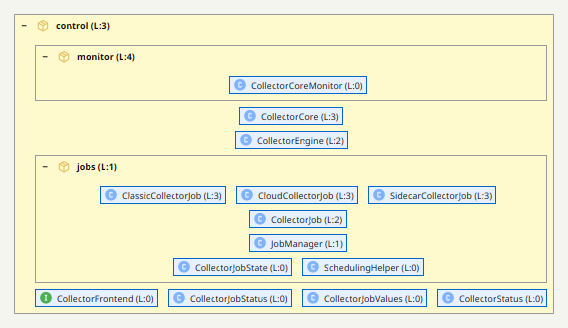
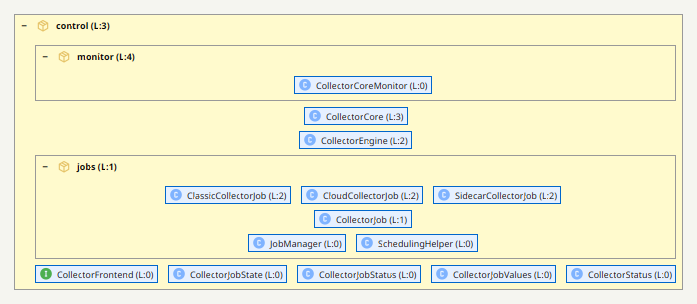
docs: the rules of the collector

Changed region(s): [[0.0, 0.0296, 0.9877, 0.977]]

diff --git a/docs/architecture/collector-components.de.md b/docs/architecture/collector-components.de.md
@@ -9,10 +9,11 @@ gibt es [ein eigenes Dokument](workbench-components.de.md).
 
 Die Bilder stammen aus [S202](https://github.com/Weigend/S202) 1.4.0, das die Abhängigkeiten aus
 dem Bytecode liest. Geladen sind die JARs aller Module des Collectors zusammen. Stand:
-7.6.0-SNAPSHOT, Commit `9277c83`, 24.11.2026.
+7.6.0-SNAPSHOT, Commit `f5d7178`, 24.11.2026.
 
 - [So sind die Bilder zu lesen](#so-sind-die-bilder-zu-lesen)
 - [Module und Verträge](#module-und-verträge)
+- [Die Regeln](#die-regeln)
 - [Level 0: alle Top-Pakete](#level-0-alle-top-pakete)
 - [Wer wen braucht](#wer-wen-braucht)
 - Kern: [control](#control) · [config](#config) · [dt](#dt) · [source](#source) ·
@@ -82,6 +83,21 @@ Die Workbench enthält `core` und die Quellen `prometheus`, `unix` und `windows`
 JavaScript-Engine, die `calc` braucht. Sie schreibt, was diese sammeln, in das Repository eines
 Projekts.
 
+## Die Regeln
+
+Zwischen den Modulen hält der Compiler die Teile auseinander. Für die Pakete tut es
+`CollectorArchitectureTest` in `apps/cli`, wo alle Module zusammenkommen, bei jedem Build:
+
+| Regel | Grund |
+| --- | --- |
+| Kein Paket hat einen Zyklus seiner Teile, auf keiner Ebene | Pakete, die sich gegenseitig brauchen, sind in Wahrheit eines |
+| Niemand braucht ein Plugin | eine Quelle, ein Repository oder die Anzeige lässt sich hinzufügen und entfernen |
+| Quellen kennen einander nicht, Repositories auch nicht | dasselbe; `archive` besteht aus CSV-Dateien, Solr und Elasticsearch teilen sich `rdb.api` |
+| Eine Quelle kennt weder Engine noch Speicher, ein Repository weder Engine noch Quellen | eine Quelle liest nur, ein Repository schreibt nur |
+| `dt`, `common` und `ssh` brauchen nichts anderes | sie sind die Grundlagen |
+| `config.impl`, `control.jobs`, `control.monitor`, `connector.nop` und `ssh.impl` benutzt nur der eigene Teil | sie sind innen |
+| Jedes Plugin ist eingetragen | sonst wird es nicht gefunden, und nichts sagt das |
+
 ## Level 0: alle Top-Pakete
 
 [![Alle Top-Pakete des Collectors in fünf Schichten](../images/collector-components/level0.png)](../images/collector-components/level0.png)
@@ -142,8 +158,8 @@ Metrikgruppe.
 
 | Teil | Inhalt |
 | --- | --- |
-| (direkt) | `CollectorCore` ist der eigenständige Collector, `CollectorEngine` lässt sich starten und stoppen und wird von der Workbench benutzt; Status und Werte für alle, die zusehen; `CollectorFrontend` ist der Vertrag einer Anzeige |
-| `jobs` | die Jobs für einzelne Hosts, für eine Cloud-Plattform und neben einem Programm (Sidecar) und ihr Zustand |
+| (direkt) | `CollectorCore` ist der eigenständige Collector, `CollectorEngine` lässt sich starten und stoppen und wird von der Workbench benutzt; Status, Zustand und Werte der Jobs für alle, die zusehen; `CollectorFrontend` ist der Vertrag einer Anzeige |
+| `jobs` | die Jobs für einzelne Hosts, für eine Cloud-Plattform und neben einem Programm (Sidecar) |
 | `monitor` | startet und stoppt einen Collector aus einem eigenen Thread |
 
 ## config
@@ -347,8 +363,7 @@ Bericht vom 24.11.2026 für den oben genannten Stand:
   gegen die Schichten.
 - **`CollectorConfig` und `HostGroup`** in `config.model` kennen sich gegenseitig.
 
-Anders als bei der Workbench wacht kein Test über die Pakete des Collectors. Zwischen den Modulen tut
-es der Compiler; innerhalb von `core` tut es nichts.
+Beide Klassenzyklen liegen innerhalb eines Pakets und bleiben.
 
 ## Die Bilder erneuern
 

diff --git a/docs/architecture/collector-components.md b/docs/architecture/collector-components.md
@@ -9,10 +9,11 @@ code of the Collector or writes a source or a repository for it. For the Workben
 
 The pictures are from [S202](https://github.com/Weigend/S202) 1.4.0, which reads the dependencies
 from the bytecode. Loaded are the JARs of all modules of the Collector together. State:
-7.6.0-SNAPSHOT, commit `9277c83`, 2026-11-24.
+7.6.0-SNAPSHOT, commit `f5d7178`, 2026-11-24.
 
 - [How to read the pictures](#how-to-read-the-pictures)
 - [Modules and contracts](#modules-and-contracts)
+- [The rules](#the-rules)
 - [Level 0: all top packages](#level-0-all-top-packages)
 - [Who needs whom](#who-needs-whom)
 - Core: [control](#control) · [config](#config) · [dt](#dt) · [source](#source) ·
@@ -80,6 +81,21 @@ Five contracts in `core` are found with `ServiceLoader`, registered in `META-INF
 The Workbench contains `core` and the sources `prometheus`, `unix` and `windows`, without the
 JavaScript engine `calc` needs. It writes what they collect into the repository of a project.
 
+## The rules
+
+Between the modules the compiler keeps the parts apart. `CollectorArchitectureTest` in `apps/cli`, where
+all modules come together, does it for the packages, with every build:
+
+| Rule | Reason |
+| --- | --- |
+| No package has a cycle of its parts, on any level | packages that need each other are in truth one |
+| Nobody needs a plugin | a source, a repository or the display can be added and removed |
+| Sources do not know each other, nor do repositories | the same; `archive` is made of CSV files, Solr and Elasticsearch share `rdb.api` |
+| A source knows neither engine nor storage, a repository neither engine nor sources | a source only reads, a repository only writes |
+| `dt`, `common` and `ssh` need nothing else | they are the foundations |
+| `config.impl`, `control.jobs`, `control.monitor`, `connector.nop` and `ssh.impl` are used by their own part only | they are inside |
+| Every plugin is registered | one that is not is not found, and nothing says so |
+
 ## Level 0: all top packages
 
 [![All top packages of the Collector in five layers](../images/collector-components/level0.png)](../images/collector-components/level0.png)
@@ -140,8 +156,8 @@ group.
 
 | Part | Content |
 | --- | --- |
-| (direct) | `CollectorCore` is the stand-alone Collector, `CollectorEngine` can be started and stopped and is what the Workbench uses; status and values for those who look; `CollectorFrontend` is the contract of a display |
-| `jobs` | the jobs for single hosts, for a cloud platform and beside a program (sidecar), and their state |
+| (direct) | `CollectorCore` is the stand-alone Collector, `CollectorEngine` can be started and stopped and is what the Workbench uses; status, state and values of the jobs for those who look; `CollectorFrontend` is the contract of a display |
+| `jobs` | the jobs for single hosts, for a cloud platform and beside a program (sidecar) |
 | `monitor` | starts and stops a Collector from a thread of its own |
 
 ## config
@@ -345,8 +361,7 @@ Report of 2026-11-24 for the state named above:
   against the layers.
 - **`CollectorConfig` and `HostGroup`** in `config.model` know each other.
 
-Differently from the Workbench, no test keeps watch over the packages of the Collector. Between the
-modules the compiler does; inside `core` nothing does.
+Both class cycles are inside one package and stay.
 
 ## Renewing the pictures
 

diff --git a/docs/architecture/single-repository.de.md b/docs/architecture/single-repository.de.md
@@ -69,7 +69,7 @@ Moduls war alles möglich.
 | Geschäftslogik | frei von JavaFX durch die Wahl der Abhängigkeiten | frei von JavaFX durch eine Regel, wie auch die Datenhaltung |
 | FXML und CSS | nicht geprüft | benutzen andere Komponenten nur über `api` und `spi` und finden ihre Dateien und Controller |
 
-Drei Tests prüfen das bei jedem Build:
+Drei Tests der Workbench prüfen das bei jedem Build:
 
 - **`LayerArchitectureTest`** (ArchUnit) prüft den Code: Außenkanten, Schichten, Zyklen, Techniken.
   Die generierten Module der Dependency Injection sind ausgenommen, weil sie alle Komponenten
@@ -85,9 +85,10 @@ kein Zugriff an einer `api` vorbei, kein Paketzyklus und vier Klassenzyklen inne
 bekannt sind und bleiben. S202 findet, wofür niemand eine Regel geschrieben hat, zum Beispiel ein Paket
 am falschen Ort; was es findet, wird zur Regel, wenn es nicht wiederkommen darf.
 
-Beim Collector sind weiterhin die Module die Grenzen. Seine Pakete beschreiben
-[die Komponenten des Collectors](collector-components.de.md), mit dem, was S202 dazu meldet; Regeln gibt
-es dafür noch nicht.
+Beim Collector sind weiterhin die Module die Grenzen, und `CollectorArchitectureTest` ergänzt Regeln für
+seine Pakete: keine Zyklen auf irgendeiner Ebene, niemand braucht ein Plugin, und jedes Plugin ist
+eingetragen. Sie stehen in [den Komponenten des Collectors](collector-components.de.md), mit dem, was S202
+meldet.
 
 Über die Struktur hinaus:
 

diff --git a/docs/architecture/single-repository.md b/docs/architecture/single-repository.md
@@ -69,7 +69,7 @@ everything was possible.
 | Business logic | free of JavaFX by the choice of dependencies | free of JavaFX by rule, as the storage is |
 | FXML and CSS | not checked | use other components through `api` and `spi` only, and find their files and controllers |
 
-Three tests check this with every build:
+Three tests of the workbench check this with every build:
 
 - **`LayerArchitectureTest`** (ArchUnit) checks the code: outer edges, layers, cycles, technologies.
   The generated modules of the dependency injection are exempt because they wire all components
@@ -84,9 +84,9 @@ no access past an `api`, no package cycle, and four class cycles inside one pack
 known and stay. S202 finds what nobody wrote a rule for, for example a package in the wrong place;
 what it finds becomes a rule if it must not come back.
 
-In the collector the modules are still the boundaries. Its packages are described in
-[the components of the Collector](collector-components.md), with what S202 reports about them; there
-are no rules for them yet.
+In the collector the modules are still the boundaries, and `CollectorArchitectureTest` adds rules for
+its packages: no cycles on any level, nobody needs a plugin, and every plugin is registered. They are
+described in [the components of the Collector](collector-components.md), with what S202 reports.
 
 Beyond the structure:
 
